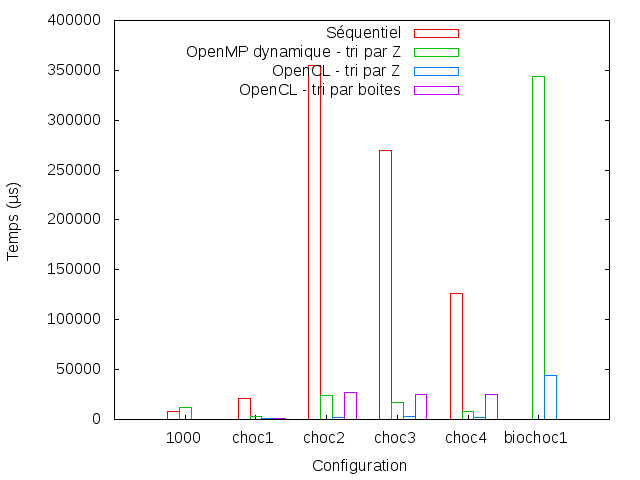
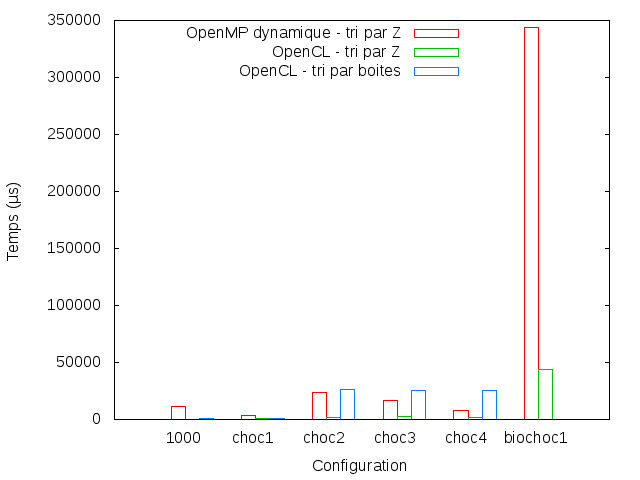
Suppression des perfs de la version séquentielle sur tesla

diff --git a/rapport.tex b/rapport.tex
@@ -54,7 +54,7 @@ Nous avons effectués des mesures de performances sur 2 machines différentes :
 Pour résumer, la machine tesla dispose d'un bien meilleur GPU que kira, ce qui va permettre de déterminer si notre kernel tire parti du materiel ou non. 
 On compare également 4 versions données ou implémentées :
 \begin{itemize}
-\item La version séquentielle, fournie au début du projet
+\item La version séquentielle, fournie au début du projet (uniquement sur kira)
 \item La version OpenMP avec un tri par Z, implémentée lors de la première partie du projet, avec un nombre de threads dynamique (meilleurs résultats)
 \item La version OpenCL avec un tri par Z, fournie pour la seconde partie du projet \\
 ... et la version OpenCL avec un tri par boite, dont on évalue les performances \\
